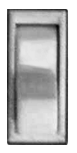
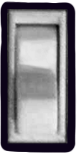
added style logic to lightswitch

Changed region(s): [[0.0, 0.0, 0.987, 1.0]]

diff --git a/src/pages/about/index.js b/src/pages/about/index.js
@@ -182,15 +182,24 @@ class AboutPage extends React.Component {
     this.refs['lightSwitch'].increment()
 
     // toggle #AboutPage-contact element background color
-    const offColor = 'rgb(12, 3, 24)'
     const contactElement = document.querySelector('.AboutPage-contact')
+    const contactSignifier = document.querySelector('.AboutPage-contact-switch-signifier')
 
+    const offColor = 'rgb(12, 3, 24)'
+    const onColor = '#fff'
     const color = getComputedStyle(contactElement ,null).getPropertyValue('background-color');
+    const isOffColor = (color == offColor)
 
-    if (color === offColor)
-      contactElement.style.backgroundColor = '#fff'
-    else
+    // update elements with new colors
+    if (isOffColor) {
+      contactElement.style.backgroundColor = onColor
+      contactSignifier.style.color = offColor
+      contactSignifier.innerText = 'Click off'
+    } else {
       contactElement.style.backgroundColor = offColor
+      contactSignifier.style.color = onColor
+      contactSignifier.innerText = 'Click on'
+    }
   }
 
   render() {
@@ -283,7 +292,7 @@ class AboutPage extends React.Component {
         </div>
         <div className="AboutPage-spacer"></div>
         <div className="AboutPage-block d-flex AboutPage-contact">
-          <h3 className="AboutPage-contact-switch-signifier">Click</h3>
+          <h3 className="AboutPage-contact-switch-signifier">Click on</h3>
           <AnimateImages
             ref={ 'lightSwitch' }
             autoStart={ false }
